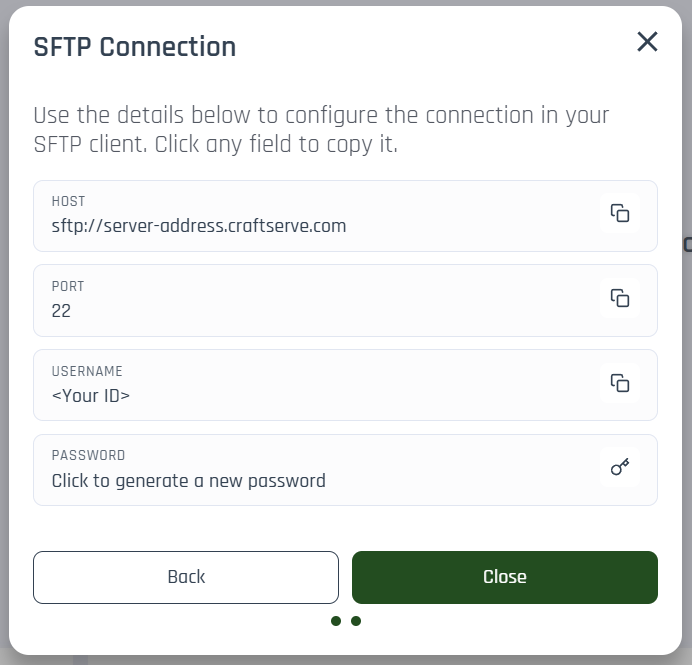
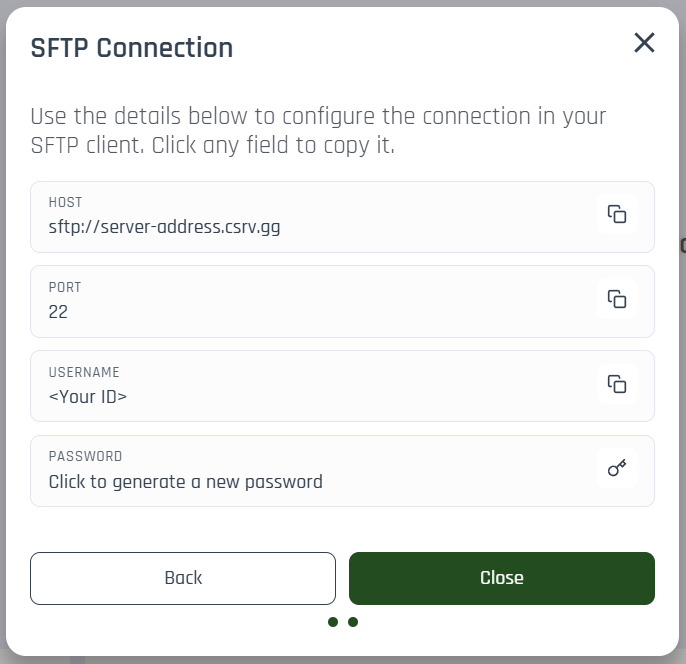
Updated STP connection addresses

diff --git a/docs/pl-PL/panel/sftp.md b/docs/pl-PL/panel/sftp.md
@@ -8,7 +8,7 @@ W panelu serwera przejdź do zakładki **Pliki** i kliknij przycisk **Połączen
 
 Powinno się otworzyć okno, w którym znajdziesz dane:
 
-1. **HOST** – np. `sftp://smart-gray-squid.craftserve.com`
+1. **HOST** – np. `sftp://smart-gray-squid.csrv.gg`
 2. **PORT** – zazwyczaj `22`
 3. **NAZWA UŻYTKOWNIKA** – unikalny login do SFTP
 4. **HASŁO** – aktualne hasło (jeśli nie znasz, wygeneruj nowe)
@@ -39,7 +39,7 @@ Jeżeli nie wiesz od czego zacząć, wykorzystaj tę dokumentację oraz jeden z 
 1. Otwórz WinSCP i wybierz **Nowa sesja/Nowa karta**.
 2. W polu **Protokół pliku** wybierz **SFTP**.
 3. Wypełnij pola:
-   - Nazwa hosta: wartości z panelu (np. `smart-gray-squid.craftserve.com`)
+   - Nazwa hosta: wartości z panelu (np. `smart-gray-squid.csrv.gg`)
    - Numer portu: `22`
    - Nazwa użytkownika: wartość z panelu
    - Hasło: wygenerowane hasło

diff --git a/docs/en-US/panel/sftp.md b/docs/en-US/panel/sftp.md
@@ -8,7 +8,7 @@ In the server panel, go to the **Files** section and click **SFTP connection**.
 
 You should see:
 
-1. **HOST** – e.g. `sftp://smart-gray-squid.craftserve.com`
+1. **HOST** – e.g. `sftp://smart-gray-squid.csrv.gg`
 2. **PORT** – usually `22`
 3. **USER NAME**
 4. **PASSWORD**
@@ -39,7 +39,7 @@ If you are unsure where to begin, use this documentaion and one of the recommend
 1. Open WinSCP and choose **New Session/New tab**.
 2. Select **File protocol** = **SFTP**.
 3. Enter credentials from panel:
-   - Host name: value from panel (e.g., `smart-gray-squid.craftserve.com`)
+   - Host name: value from panel (e.g., `smart-gray-squid.csrv.gg`)
    - Port number: `22`
    - User name: value from panel
    - Password: generated password
